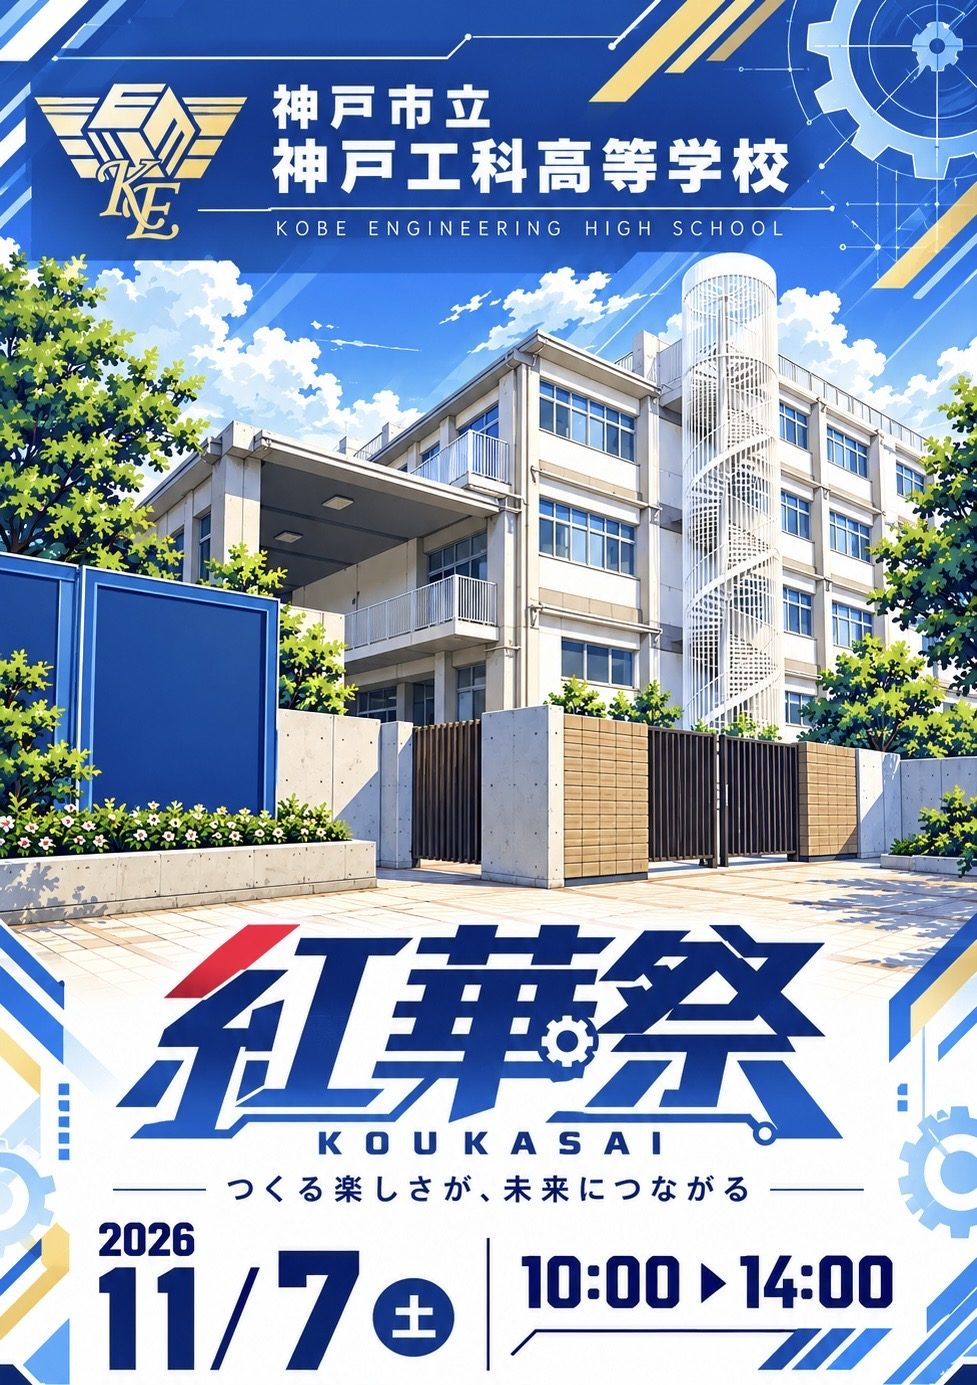
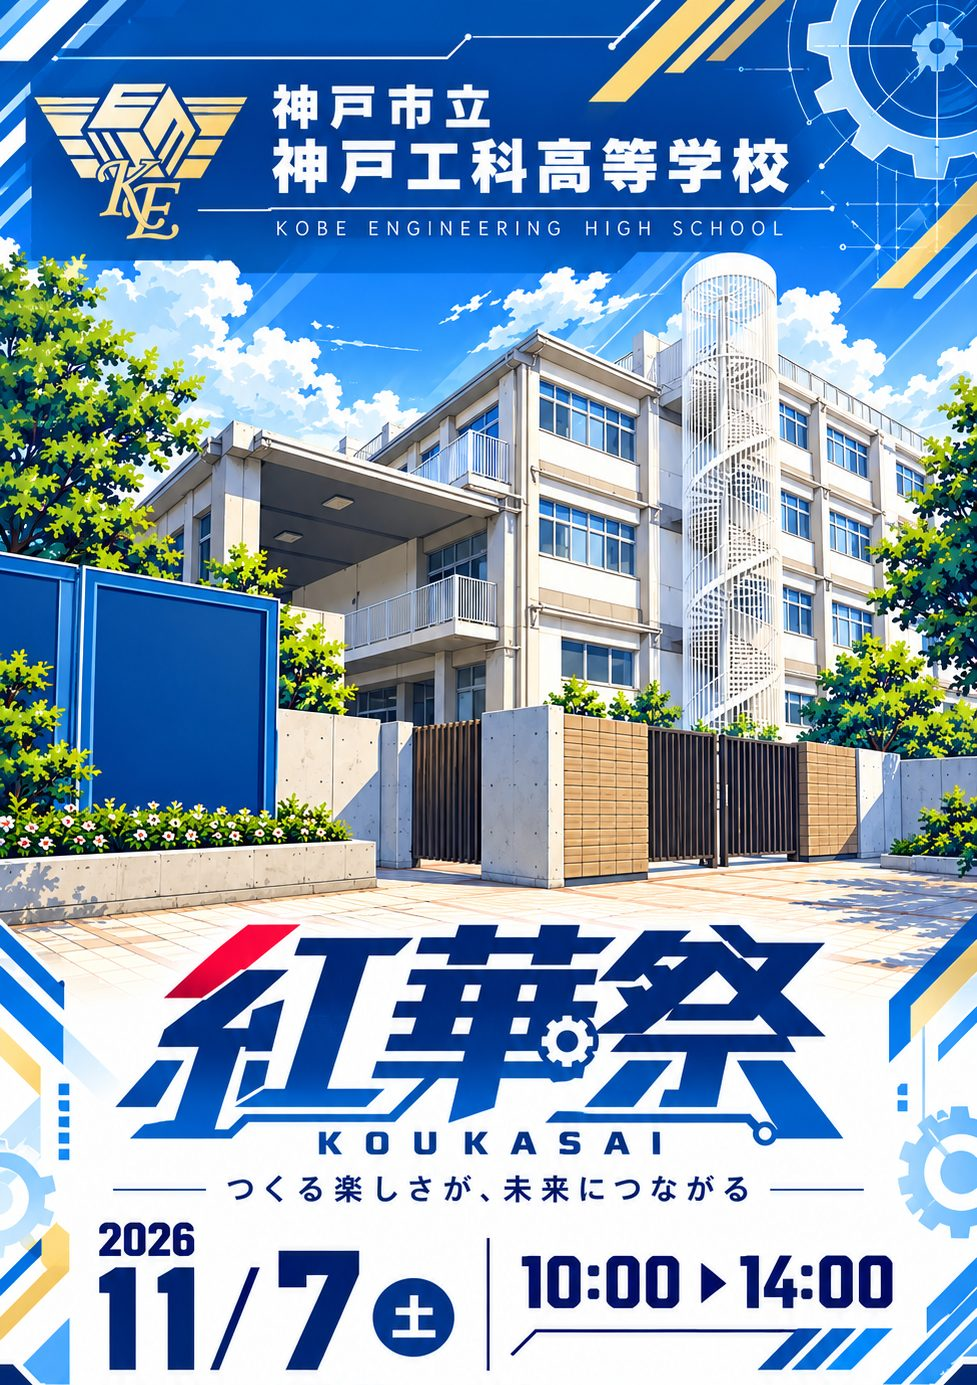
初回に入場チケットをスワイプで切る演出を追加
Claude-Session: https://claude.ai/code/session_01DkuzA22K9hD4YE4Jma8uGE

diff --git a/index.html b/index.html
@@ -6,6 +6,10 @@
 <meta name="claude:viewport-fit-sides" content="cover">
 <link rel="preconnect" href="https://fonts.googleapis.com">
 <link rel="preconnect" href="https://fonts.gstatic.com" crossorigin>
+<script>
+// 初めて開いたときだけチケットを切る演出を出す（教室のQRから開いたときは出さない）
+try{if(!/[?&]s=/.test(location.search)&&!localStorage.getItem("koukasai-ticket-torn"))document.documentElement.classList.add("intro")}catch(e){}
+</script>
 <style>
 html{-webkit-text-size-adjust:100%;text-size-adjust:100%}
 [hidden]{display:none!important}
@@ -268,6 +272,38 @@ button.ghost:focus-visible{outline:2px solid var(--ai)}
 .scanner video{width:100%;height:100%;object-fit:cover}
 .scanner .frame{position:absolute;width:min(70vw,60vh,320px);aspect-ratio:1;border:4px solid #fff;border-radius:18px;box-shadow:0 0 0 2000px rgba(0,0,0,.35)}
 .scanner .smsg{font-size:14px;font-weight:700;text-align:center;min-height:1.5em}
+/* チケットを切る演出 */
+#intro{display:none;position:fixed;inset:0;z-index:60;background:#0c2766;color:#fff;overflow:hidden;
+  padding:calc(56px + env(safe-area-inset-top,0px)) max(12px,env(safe-area-inset-right,0px)) calc(20px + env(safe-area-inset-bottom,0px)) max(12px,env(safe-area-inset-left,0px));
+  transition:background-color .5s ease}
+html.intro #intro{display:flex;flex-direction:column;align-items:center;justify-content:center;gap:16px}
+html.intro body{overflow:hidden}
+#intro.clear{background-color:rgba(12,39,102,0)}
+.tk{position:relative;width:min(100%,calc((100vh - 170px) * 977 / 1609),460px);flex:none;filter:drop-shadow(0 10px 24px rgba(0,0,0,.45))}
+@supports (height:100dvh){.tk{width:min(100%,calc((100dvh - 170px) * 977 / 1609),460px)}}
+.tk-top{display:block;width:100%;height:auto;max-width:none;transform-origin:0 0}
+.tk-stub{position:relative;display:block;width:100%;transform-origin:100% 0;touch-action:none;cursor:grab;user-select:none;-webkit-user-select:none}
+.tk-stub::before{content:"";position:absolute;left:0;right:0;top:-48px;height:48px}
+.tk-stub img{display:block;width:100%;height:auto;max-width:none;pointer-events:none;-webkit-user-drag:none}
+.perf{position:absolute;left:0;right:0;top:-1px;border-top:3px dashed rgba(255,255,255,.95);pointer-events:none}
+.tear{position:absolute;left:0;top:-3px;height:6px;width:0;border-radius:3px;background:#fff;box-shadow:0 0 10px 3px rgba(255,214,102,.9);pointer-events:none}
+.finger{position:absolute;top:-17px;left:4%;width:34px;height:34px;border-radius:50%;background:rgba(255,255,255,.85);box-shadow:0 0 0 6px rgba(255,255,255,.3);pointer-events:none;animation:fingerdemo 1.8s ease-in-out infinite}
+@keyframes fingerdemo{0%{left:4%;opacity:0}15%{opacity:1}75%{left:80%;opacity:1}100%{left:86%;opacity:0}}
+.tk.touched .finger{display:none}
+.tk-hint{font-size:15px;font-weight:700;text-align:center;line-height:1.5;display:flex;align-items:center;gap:8px}
+.tk-hint .ar{display:inline-block;animation:arr 1s ease-in-out infinite}
+@keyframes arr{0%,100%{transform:translateX(0)}50%{transform:translateX(6px)}}
+.tk-skip{position:absolute;top:calc(12px + env(safe-area-inset-top,0px));right:max(12px,env(safe-area-inset-right,0px));font:inherit;font-weight:700;font-size:14px;
+  padding:8px 14px;border-radius:999px;border:1px solid rgba(255,255,255,.5);background:rgba(255,255,255,.12);color:#fff;cursor:pointer}
+.tk-skip:focus-visible{outline:3px solid #ffd666;outline-offset:2px}
+.tk-stub.back{transition:transform .35s cubic-bezier(.3,1.4,.5,1)}
+.tk-stub.back .tear{transition:width .35s ease}
+.tk-stub.fall{transition:transform .9s cubic-bezier(.45,0,.85,.55),opacity .9s ease;opacity:.0}
+.tk-top.fly{transition:transform .65s cubic-bezier(.3,.8,.3,1)}
+#intro .fade{transition:opacity .3s ease}
+#intro.clear .fade{opacity:0}
+.replay{font:inherit;font-size:12px;background:none;border:0;color:var(--muted);text-decoration:underline;cursor:pointer;justify-self:center}
+@media (prefers-reduced-motion:reduce){.finger,.tk-hint .ar{animation:none}.tk-stub.fall,.tk-top.fly{transition:none}}
 @media (prefers-reduced-motion:reduce){.live{animation:none}.slot.new .stamp{animation:none}.bar span{transition:none}}
 </style>
 
@@ -321,6 +357,7 @@ button.ghost:focus-visible{outline:2px solid var(--ai)}
       <h2 class="sec">ご来場の方へ</h2>
       <dl class="notice" id="noticelist"></dl>
     </div>
+    <button type="button" class="replay" id="replay" hidden>入場チケットをもう一度切る</button>
   </section>
 
   <!-- 出し物 -->
@@ -445,6 +482,17 @@ button.ghost:focus-visible{outline:2px solid var(--ai)}
   <div class="shead"><strong>教室のQRコードを枠に入れてください</strong><button type="button" id="scanclose">やめる</button></div>
   <div class="sview"><video id="video" playsinline muted></video><div class="frame" aria-hidden="true"></div></div>
   <div class="smsg" id="smsg" role="status">カメラを準備しています…</div>
+</div>
+<div id="intro" role="dialog" aria-modal="true" aria-label="入場チケット">
+  <button type="button" class="tk-skip fade" id="tkskip">スキップ</button>
+  <div class="tk" id="tk">
+    <img class="tk-top" id="tktop" src="cover.jpg" alt="紅華祭の入場チケット" width="977" height="1385">
+    <div class="tk-stub" id="tkstub" aria-label="入場チケットの切り取り部分。右へスワイプして切り取ります">
+      <img src="stub.jpg" alt="入場チケット" width="977" height="224" draggable="false">
+      <div class="perf"></div><div class="tear" id="tktear"></div><div class="finger"></div>
+    </div>
+  </div>
+  <div class="tk-hint fade" id="tkhint">点線を左から右へなぞってチケットを切る<span class="ar" aria-hidden="true">→</span></div>
 </div>
 <div class="toast" id="toast" hidden></div>
 
@@ -759,6 +807,67 @@ setInterval(()=>{const d=new Date();$("now").textContent=`いまの時刻 ${d.ge
 
 renderFest();
 render();
+
+// ===== 入場チケットを切る演出 =====
+const TKKEY="koukasai-ticket-torn";
+const reduceMotion=matchMedia("(prefers-reduced-motion: reduce)").matches;
+let tkP=0,tkStart=null,tkDone=false;
+function tkSet(p){
+  tkP=Math.max(0,Math.min(1,p));
+  $("tktear").style.width=(tkP*100)+"%";
+  $("tkstub").style.transform=`rotate(${-tkP*4}deg) translateY(${tkP*5}px)`;
+}
+function tkOpen(){
+  if(!FEST.ticket){document.documentElement.classList.remove("intro");return}
+  tkDone=false;tkStart=null;
+  const st=$("tkstub");st.className="tk-stub";st.style.cssText="";
+  const top=$("tktop");top.className="tk-top";top.style.cssText="";
+  st.querySelector("img").src=FEST.ticket;top.src=FEST.cover||"cover.jpg";
+  $("tk").classList.remove("touched");$("intro").classList.remove("clear");$("intro").style.background="";
+  tkSet(0);document.documentElement.classList.add("intro");
+}
+function tkClose(){
+  document.documentElement.classList.remove("intro");
+  try{localStorage.setItem(TKKEY,"1")}catch(e){}
+  $("replay").hidden=!FEST.ticket;
+}
+function tkFinish(){
+  if(tkDone)return;tkDone=true;tkSet(1);
+  try{localStorage.setItem(TKKEY,"1")}catch(e){}
+  if(navigator.vibrate)try{navigator.vibrate(20)}catch(e){}
+  window.scrollTo(0,0);showTab("home");
+  if(reduceMotion){tkClose();return}
+  const st=$("tkstub");st.classList.add("fall");
+  st.style.transform=`translate(-8vw,${innerHeight}px) rotate(-28deg)`;
+  // 残ったチケットの上半分を、ホームの表紙の位置へ移す
+  setTimeout(()=>{
+    const top=$("tktop"),a=top.getBoundingClientRect(),cv=document.querySelector(".cover-img");
+    $("intro").classList.add("clear");
+    if(cv){const b=cv.getBoundingClientRect();top.classList.add("fly");
+      top.style.transform=`translate(${b.left-a.left}px,${b.top-a.top}px) scale(${b.width/a.width})`;}
+    $("tk").style.filter="none";
+    setTimeout(tkClose,700);
+  },450);
+}
+(()=>{
+  const st=$("tkstub");
+  st.addEventListener("pointerdown",e=>{
+    if(tkDone)return;tkStart={x:e.clientX,p:tkP};st.classList.remove("back");$("tk").classList.add("touched");
+    try{st.setPointerCapture(e.pointerId)}catch(_){}
+  });
+  st.addEventListener("pointermove",e=>{
+    if(!tkStart||tkDone)return;
+    const w=$("tk").getBoundingClientRect().width*0.75;
+    tkSet(tkStart.p+(e.clientX-tkStart.x)/w);
+    if(tkP>=1)tkFinish();
+  });
+  const up=()=>{if(!tkStart||tkDone)return;tkStart=null;if(tkP>=0.95){tkFinish();return}st.classList.add("back");tkSet(0)};
+  st.addEventListener("pointerup",up);st.addEventListener("pointercancel",up);
+  $("tkskip").onclick=()=>{tkDone=true;tkClose()};
+  $("replay").onclick=()=>{window.scrollTo(0,0);tkOpen()};
+  addEventListener("keydown",e=>{if(e.key==="Escape"&&document.documentElement.classList.contains("intro"))$("tkskip").click()});
+  if(document.documentElement.classList.contains("intro"))tkOpen();else $("replay").hidden=!FEST.ticket;
+})();
 loadDisplayFont(SPOTS.map(x=>x.name).join("")+SHOPS.map(x=>x.by).join("")+"コンプリート！景品は受け取り済みです受取済QRを読み取る景品の受け取りSTAMPRALLY");
 
 // ほかのタブで押したスタンプを反映

diff --git a/festival.js b/festival.js
@@ -5,6 +5,7 @@ window.FEST = {
   name: "紅華祭",           // 文化祭の名前
   year: "2026",
   cover: "cover.jpg",      // 表紙画像。空 "" にすると文字の表紙に戻ります
+  ticket: "stub.jpg",      // 入場チケットの切り取り部分。初めて開いたときにスワイプで切る演出が出ます（"" で演出なし）
   coverAlt: "紅華祭 2026年11月7日（土）10:00〜14:00 神戸市立神戸工科高等学校。テーマ「つくる楽しさが、未来につながる」",
   theme: "つくる楽しさが、未来につながる",  // テーマ・スローガン
   dates: [                 // 開催日と時間

diff --git a/README.md b/README.md
@@ -12,3 +12,5 @@
 `map.png` は会場マップです。台紙ページの「マップ」タブに表示されます。
 
 `shops.js` は「出し物」タブの紹介文・メニューです。各出し物の `desc`（紹介文）、`menu`（品名と値段）、`note`（時間や注意）を書き換えると反映されます。
+
+`cover.jpg` は表紙、`stub.jpg` は入場チケットの切り取り部分です。初めて開いたときに、チケットをスワイプで切る演出が出ます。
